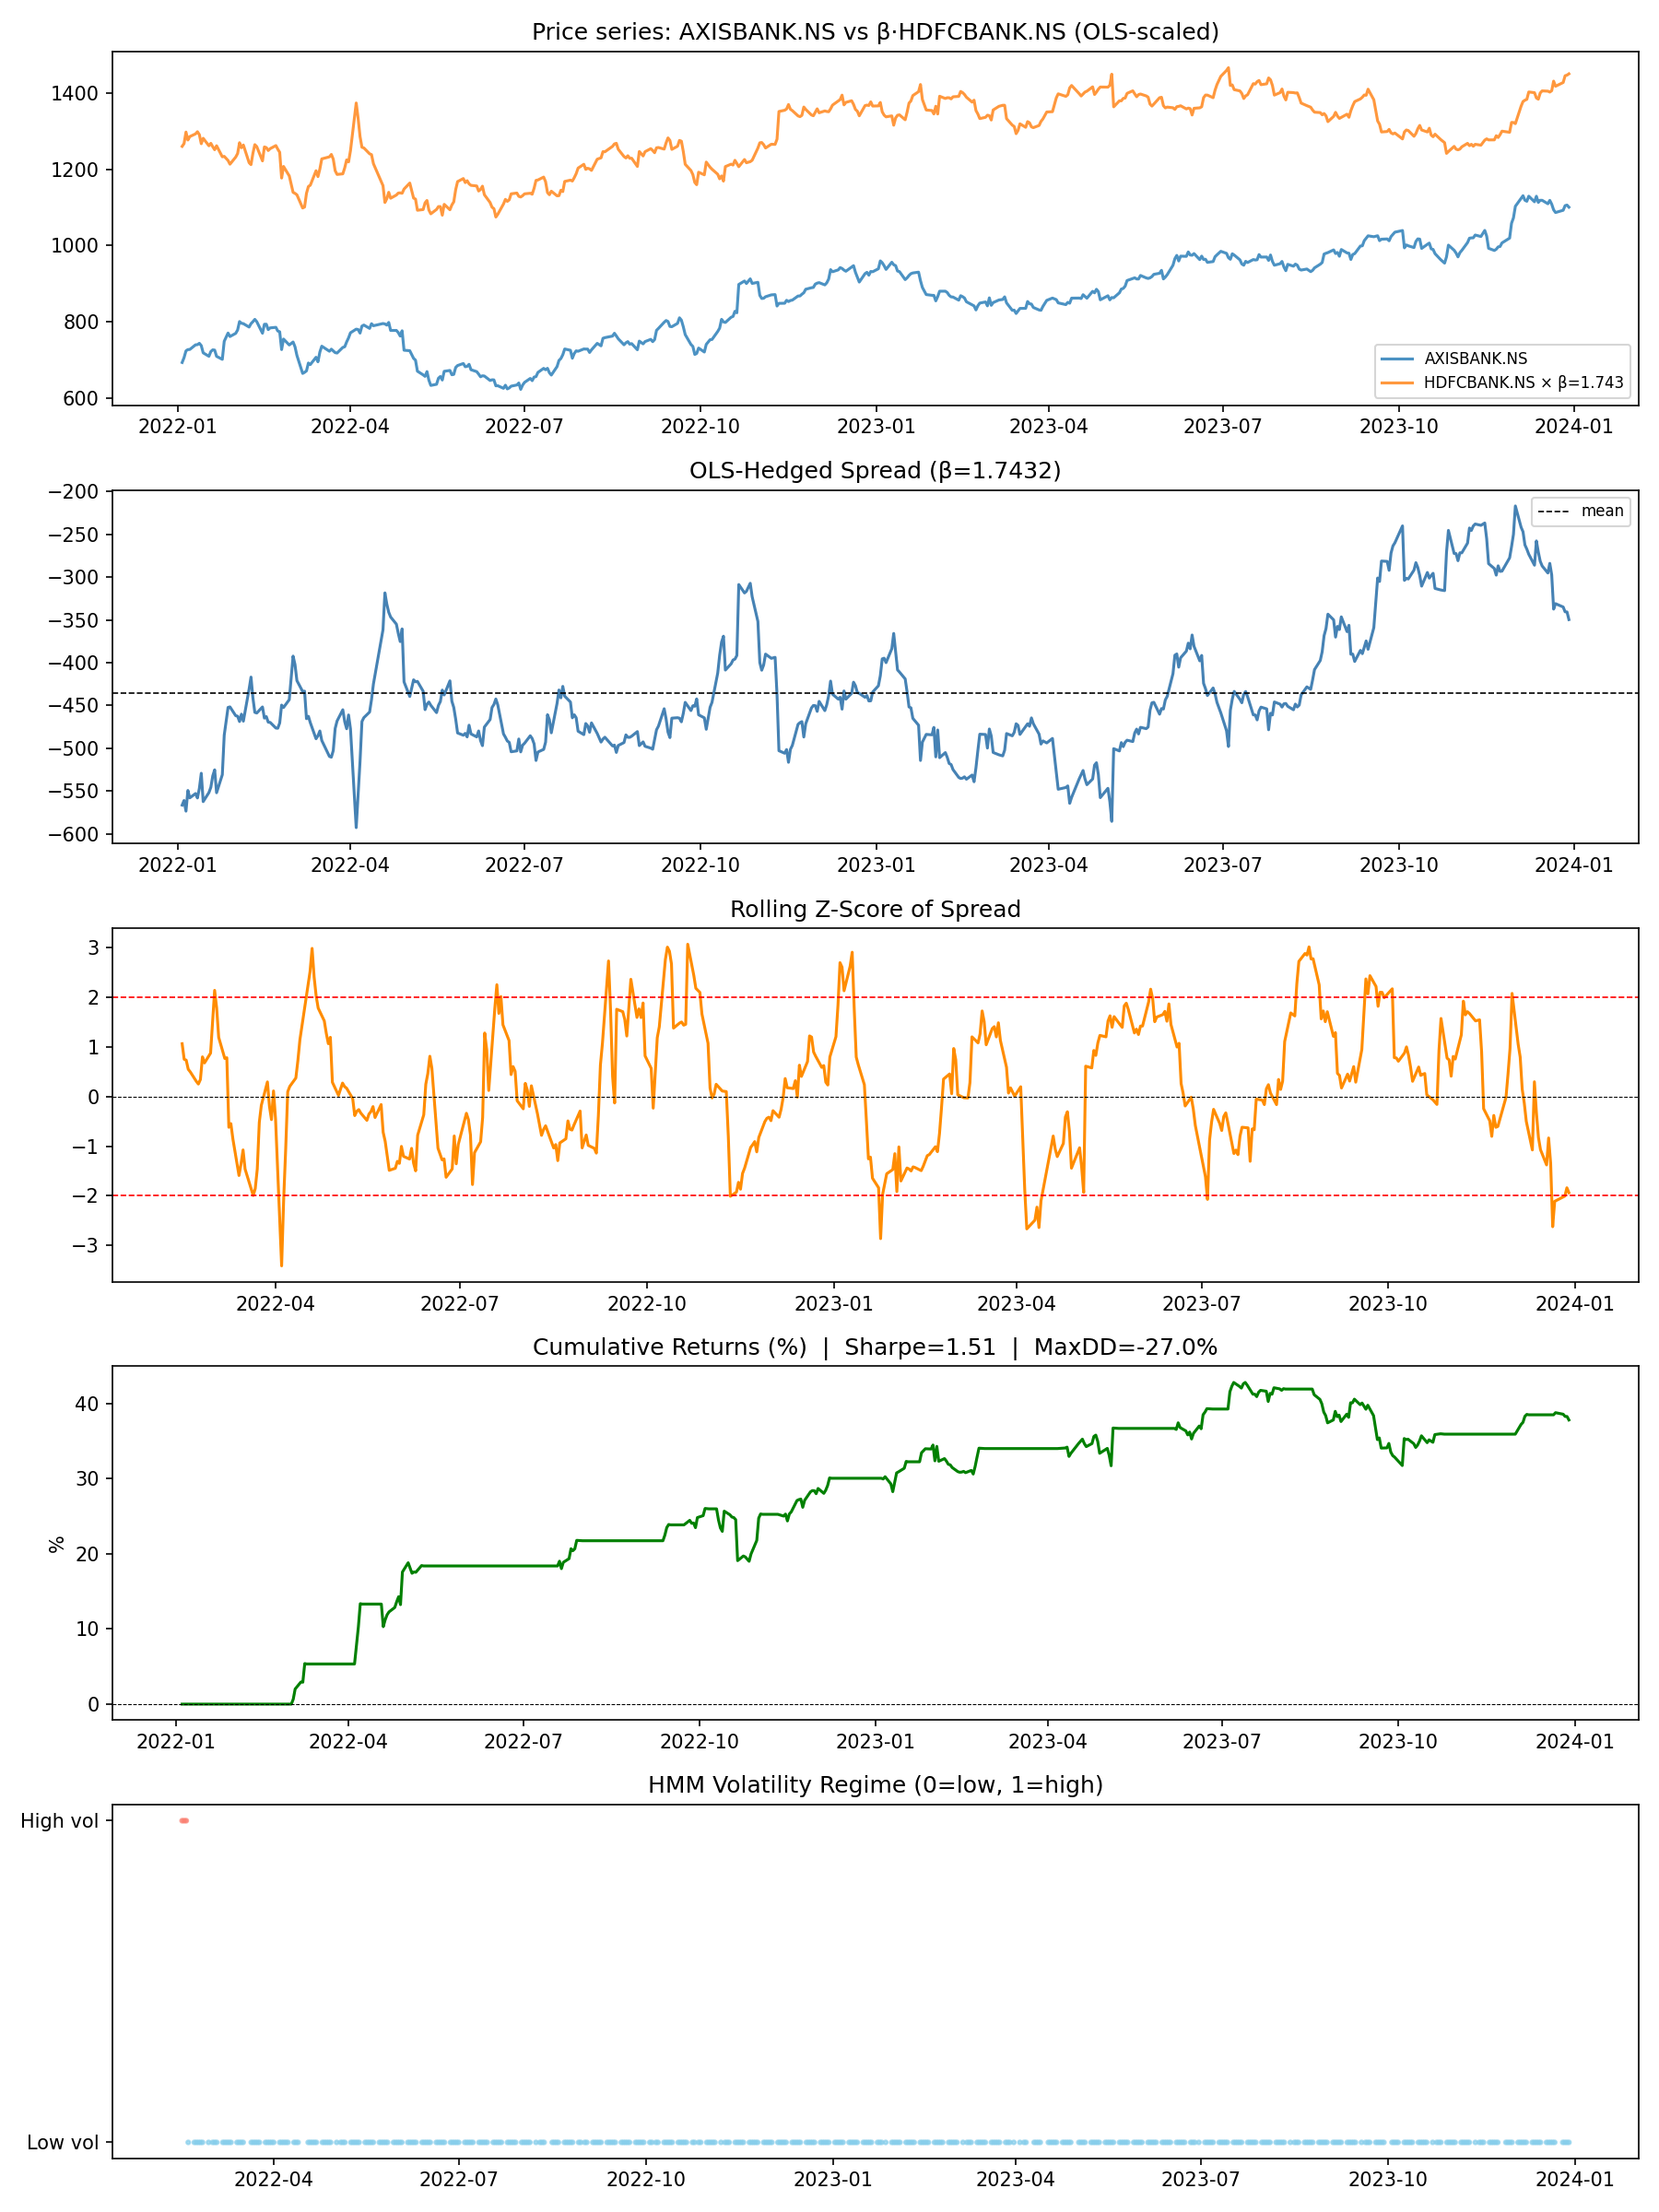
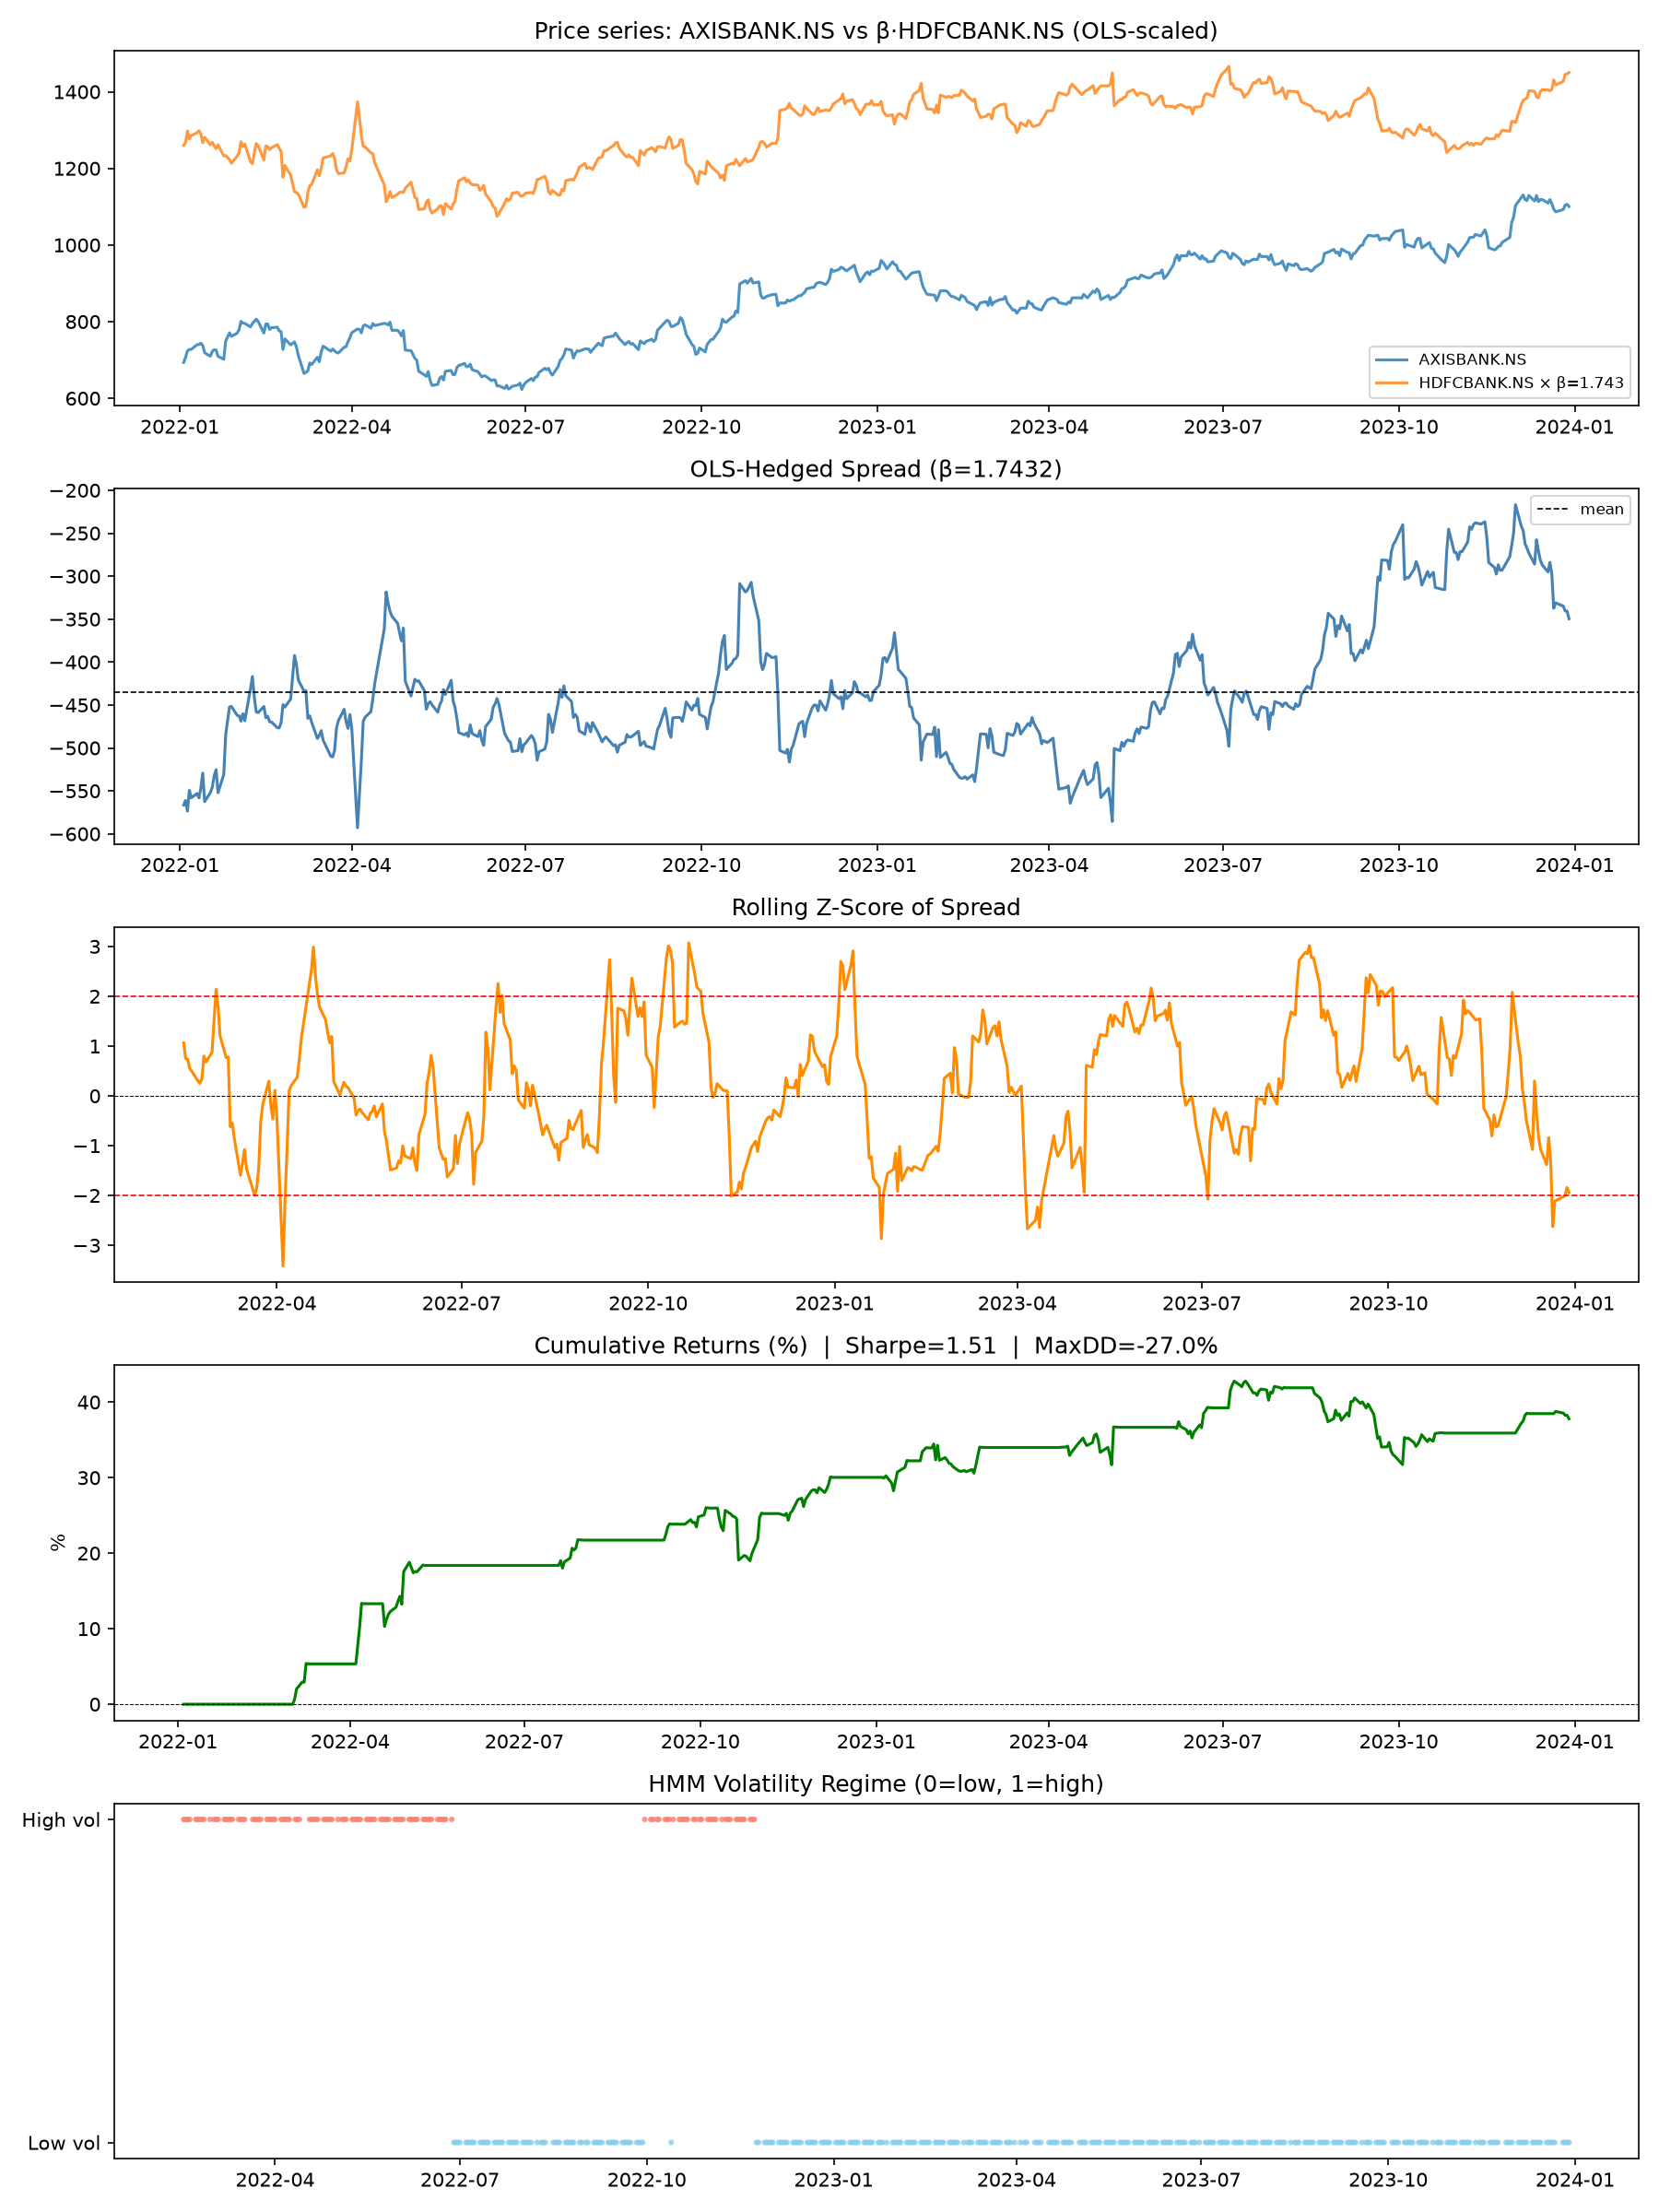
Update README with methodology and results

diff --git a/README.md b/README.md
@@ -1,40 +1,198 @@
-# quant-ml-pairs-trading
-Market neutral pairs trading strategy using cointegration testing and ML driven pair selection, with regime detection and backtesting on NIFTY bank stocks.
-# Statistical Arbitrage Pairs Trading: A Cointegration and Machine Learning Approach to Market-Neutral Strategy Design
+# Machine Learning Enhanced Statistical Arbitrage System
 
-A quantitative finance project combining econometric pairs trading with machine learning-based enhancements for pair selection and regime detection — designed for BFSI research and data science applications.
+A quantitative trading framework that combines cointegration screening, machine learning pair selection, regime detection, and transaction-cost-aware backtesting to evaluate statistical arbitrage opportunities in equity markets.
 
-## Overview
+## Project Overview
 
-This project implements a market-neutral pairs trading strategy:
-1. Identify statistically cointegrated stock pairs (Engle-Granger test)
-2. Generate trading signals based on z-score deviations of the price spread
-3. Backtest the strategy with realistic transaction costs
-4. (In progress) Enhance pair selection using ML-based feature analysis and regime detection
+Traditional pairs trading strategies rely on identifying cointegrated assets whose price relationship exhibits mean-reverting behavior. While effective in theory, such approaches often suffer from false discoveries, unstable relationships, and changing market conditions.
+
+This project extends classical statistical arbitrage by integrating:
+
+* Cointegration testing using the Engle-Granger framework
+* Benjamini-Hochberg False Discovery Rate correction
+* Machine learning-based pair ranking
+* Market regime detection
+* Transaction-cost-aware backtesting
+* Time-series-aware model validation
+
+The objective is to determine whether statistical features and machine learning can improve pair selection and trading performance.
+
+---
 
 ## Methodology
 
-- **Cointegration Testing:** Engle-Granger two-step method to identify pairs whose price spread is mean-reverting
-- **Signal Generation:** Z-score of the spread; entry at ±2σ, exit at 0
-- **Backtesting:** Vectorized backtest incorporating transaction costs
-- **ML Enhancement (in progress):** Feature engineering (rolling correlation, volatility) for ML-based pair ranking and regime detection (KMeans/HMM)
+### 1. Cointegration Screening
 
-## Project Structure
+All possible stock pairs are evaluated using the Engle-Granger cointegration test.
 
-## Tech Stack
+To reduce false positives resulting from multiple hypothesis testing, p-values are adjusted using the Benjamini-Hochberg False Discovery Rate (FDR) procedure.
 
-Python, pandas, numpy, statsmodels, scikit-learn, XGBoost, yfinance, matplotlib
+### 2. Feature Engineering
 
-## Roadmap
+For each candidate pair, the framework computes:
 
-- [ ] Generate sample price dataset (NIFTY Bank stocks)
-- [ ] Run cointegration tests and identify tradeable pairs
-- [ ] Implement and backtest baseline z-score strategy
-- [ ] Build ML feature pipeline for pair selection
-- [ ] Train ML model for pair profitability prediction
-- [ ] Implement regime detection and analyze performance across regimes
-- [ ] Add EDA and results notebooks with visualizations
+* Rolling correlation
+* Rolling volatility
+* Spread z-score
+* Hurst exponent
+* Ornstein-Uhlenbeck half-life
+* Mean-reversion characteristics
 
-## Author
+These features capture both equilibrium stability and short-term market behavior.
 
-Shree — BS-MS Economics, IIT Roorkee
+### 3. Machine Learning Pair Selection
+
+A Random Forest classifier is trained using time-series-aware cross-validation (TimeSeriesSplit).
+
+The model ranks candidate pairs according to their estimated probability of profitability.
+
+### 4. Regime Detection
+
+Market environments are classified using volatility-based clustering.
+
+This allows strategy performance to be analyzed across different market regimes.
+
+### 5. Backtesting
+
+The strategy incorporates:
+
+* One-period execution lag
+* Transaction costs
+* Position tracking
+* Portfolio equity evolution
+
+to produce more realistic performance estimates.
+
+---
+
+## Dataset
+
+Universe:
+
+* AXISBANK.NS
+* HDFCBANK.NS
+* ICICIBANK.NS
+* KOTAKBANK.NS
+
+Sample:
+
+* 493 trading days
+* 4 stocks
+* 6 possible candidate pairs
+
+---
+
+## Results
+
+### Cointegration Screening
+
+| Metric                                        | Value |
+| --------------------------------------------- | ----- |
+| Candidate Pairs Tested                        | 6     |
+| Pairs Surviving Benjamini-Hochberg Correction | 0     |
+
+No pairs remained statistically significant after False Discovery Rate correction at the 5% significance level.
+
+Rather than forcing a cointegration-based trade, the framework selected the highest-ranked machine learning candidate pair for evaluation.
+
+---
+
+### Machine Learning Performance
+
+The Random Forest model was trained using a 70/30 time-based train-test split and TimeSeriesSplit cross-validation.
+
+| Metric                    | Value |
+| ------------------------- | ----- |
+| Best Cross-Validation AUC | 0.650 |
+| Out-of-Sample AUC         | 0.637 |
+| Out-of-Sample Accuracy    | 62.2% |
+
+Top-ranked candidate pairs:
+
+| Pair                       | Probability of Profitability |
+| -------------------------- | ---------------------------- |
+| AXISBANK.NS – HDFCBANK.NS  | 80.8%                        |
+| HDFCBANK.NS – ICICIBANK.NS | 76.2%                        |
+| HDFCBANK.NS – KOTAKBANK.NS | 67.8%                        |
+
+---
+
+### Trading Performance
+
+Selected Pair:
+
+**AXISBANK.NS – HDFCBANK.NS**
+
+Estimated hedge ratio:
+
+β = 1.7432
+
+Spread definition:
+
+AXISBANK − 1.7432 × HDFCBANK
+
+Performance metrics:
+
+| Metric                | Value  |
+| --------------------- | ------ |
+| Total Return          | 37.8%  |
+| Annualized Return     | 17.9%  |
+| Annualized Volatility | 11.8%  |
+| Sharpe Ratio          | 1.51   |
+| Maximum Drawdown      | -27.0% |
+| Calmar Ratio          | 0.66   |
+
+The strategy generated a cumulative return of 37.8% over the testing period while achieving a Sharpe ratio above 1.5 under transaction-cost and execution-lag assumptions.
+
+---
+
+### Regime Analysis
+
+Since Hidden Markov Models were unavailable in the environment, volatility regimes were identified using K-Means clustering.
+
+| Regime          | Total Return | Annualized Sharpe |
+| --------------- | ------------ | ----------------- |
+| Low Volatility  | 15.1%        | 1.08              |
+| High Volatility | 22.6%        | 2.87              |
+
+The strategy exhibited substantially stronger risk-adjusted performance during higher-volatility environments, suggesting that spread dislocations and subsequent mean reversion opportunities were more pronounced during these periods.
+
+---
+
+## Equity Curve
+
+![Equity Curve](results/equity_curve.png)
+
+Final cumulative return: **37.79%**
+
+---
+
+## Technologies
+
+* Python
+* Pandas
+* NumPy
+* SciPy
+* Statsmodels
+* Scikit-Learn
+* Matplotlib
+
+---
+
+## Future Improvements
+
+Potential extensions include:
+
+* Walk-forward validation
+* Dynamic hedge ratios using Kalman Filters
+* XGBoost and LightGBM models
+* Portfolio-level optimization
+* Sector-neutral portfolio construction
+* Hidden Markov Model regime detection
+* Live trading integration
+
+---
+
+## Disclaimer
+
+This project is intended solely for educational and research purposes and should not be interpreted as investment advice.